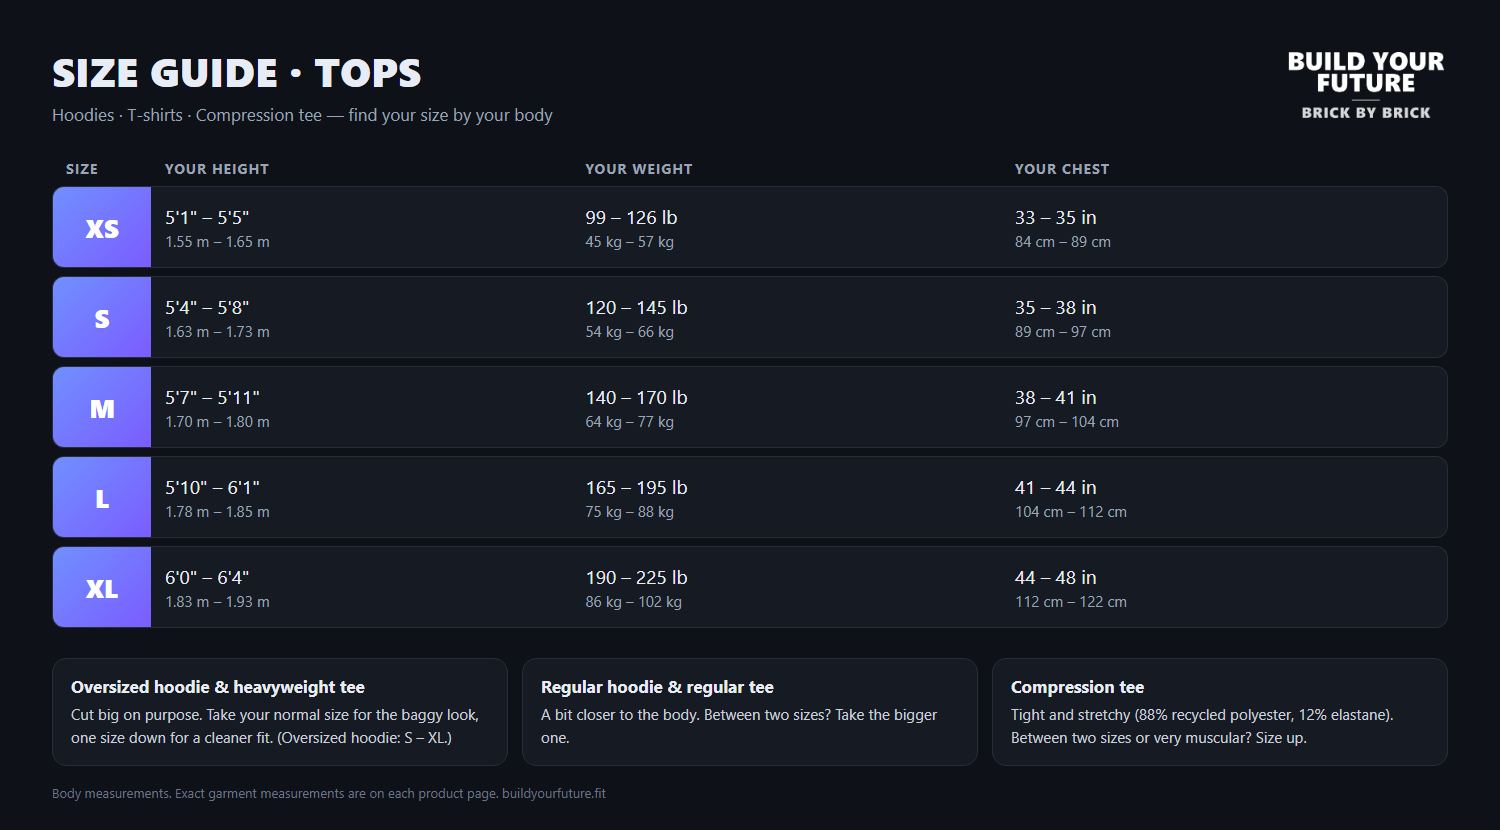
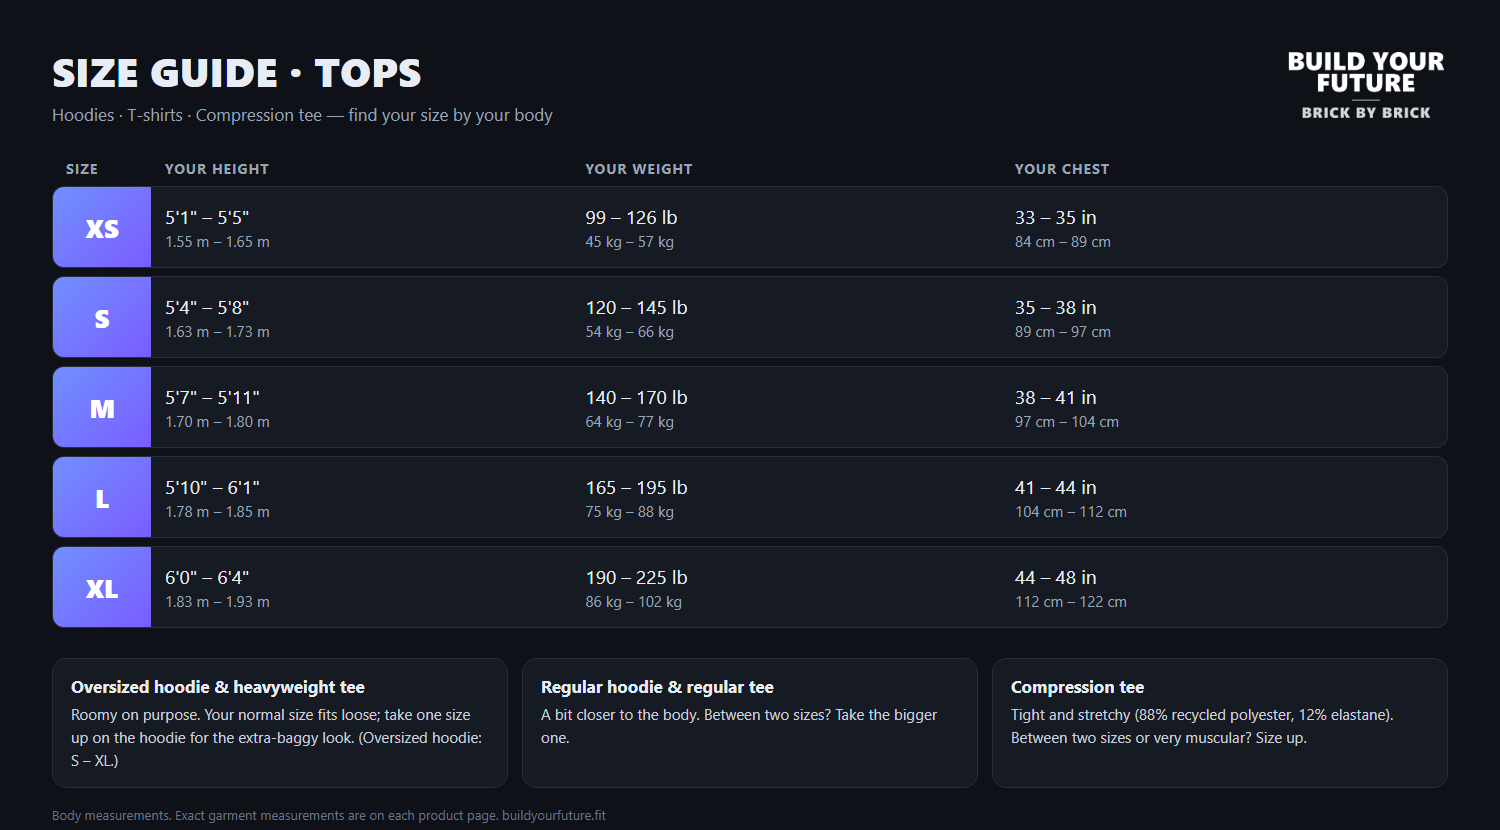
Store: oversized hoodie now 100% organic cotton 350 g/m2 at €45, sizing advice updated

Changed region(s): [[0.0307, 0.8434, 0.3987, 0.994]]

diff --git a/store.html b/store.html
@@ -155,9 +155,9 @@
         <p class="testnote" id="testNote">TEST MODE: payments are fake. Pay with Stripe's test card 4242 4242 4242 4242, any future date, any CVC. Nothing is printed or shipped.</p>
         <div class="grid">
           <div class="product" id="p-oversized-hoodie" data-id="oversized-hoodie"><div class="img"><img src="store/oversized-hoodie.jpg" alt="Oversized hoodie"></div><div class="body">
-            <span class="fit">Oversized fit</span><h3>Oversized Hoodie</h3>
-            <p class="spec">Heavyweight 339 g/m² fleece, brushed inside. Dropped shoulders, double-layered hood, front pocket. Logo on the chest.</p>
-            <div class="price"><span data-price>€40</span><small>+ €6 shipping</small></div>
+            <span class="fit">Relaxed fit · heavyweight</span><h3>Oversized Hoodie</h3>
+            <p class="spec">100% organic combed ring-spun cotton, heavy 350 g/m². Roomy relaxed fit, kangaroo pocket, 2×2 ribbed cuffs and hem. Logo on the chest.</p>
+            <div class="price"><span data-price>€45</span><small>+ €6 shipping</small></div>
             <div class="sizes" role="group" aria-label="Size"><button type="button" aria-pressed="false">S</button><button type="button" aria-pressed="false">M</button><button type="button" aria-pressed="false">L</button><button type="button" aria-pressed="false">XL</button></div>
             <button class="buy" type="button" disabled>Coming soon</button>
             <p class="msg" aria-live="polite"></p></div></div>
@@ -207,7 +207,7 @@
         <p class="intro">Thick, soft and built to survive the wash. Every piece is printed and sewn to order by our production partner in Europe.</p>
         <table class="specs">
           <tr><th>Piece</th><th>Fabric</th><th>Weight / feel</th><th>Fit</th></tr>
-          <tr><td><b>Oversized Hoodie</b></td><td>60% combed ring-spun cotton, 40% polyester fleece, brushed inside</td><td>339 g/m² · heavyweight</td><td>Oversized, dropped shoulders, double hood</td></tr>
+          <tr><td><b>Oversized Hoodie</b></td><td>100% organic combed ring-spun cotton</td><td>350 g/m² · heavyweight</td><td>Relaxed and roomy; size up for an extra-baggy look</td></tr>
           <tr><td><b>Hoodie</b></td><td>65% ring-spun cotton, 35% polyester, 100% cotton face</td><td>288 g/m²</td><td>Regular</td></tr>
           <tr><td><b>Heavyweight Tee</b></td><td>100% cotton, garment-dyed, pre-shrunk</td><td>240 g/m² · heavyweight</td><td>Boxy, oversized</td></tr>
           <tr><td><b>Tee</b></td><td>100% organic ring-spun cotton (GOTS)</td><td>180 g/m²</td><td>Regular</td></tr>
@@ -238,7 +238,7 @@
           <div class="q"><b>Shipping</b><span>+€6 shipping per piece to the EU and the UK. Every piece is made for you in 2 – 5 working days, then delivery takes about 4 – 7 days. You get the tracking link by email.</span></div>
           <div class="q"><b>How can I pay?</b><span>Card, PayPal, iDEAL, Apple Pay and Google Pay, on a secure Stripe payment page. We never see your card details.</span></div>
           <div class="q"><b>Wrong size or changed your mind?</b><span>Return it within 14 days after delivery. Unworn and unwashed, you pay the return shipping, we refund the rest. <a href="shipping-returns.html" style="color:var(--accent)">Shipping &amp; returns</a></span></div>
-          <div class="q"><b>Between two sizes?</b><span>Oversized pieces: take your normal size for the baggy look. Regular pieces: size up. Compression tee: size up if you're muscular.</span></div>
+          <div class="q"><b>Between two sizes?</b><span>Oversized Hoodie: your normal size fits loose, one size up for the extra-baggy look. Heavyweight Tee: take your normal size. Regular pieces: size up. Compression tee: size up if you're muscular.</span></div>
           <div class="q"><b>Something wrong with your order?</b><span>Misprint or damage? Email <a href="mailto:BrickByBrick@buildyourfuture.fit" style="color:var(--accent)">BrickByBrick@buildyourfuture.fit</a> with a photo within 30 days and we'll send a new one for free.</span></div>
         </div>
       </div>
